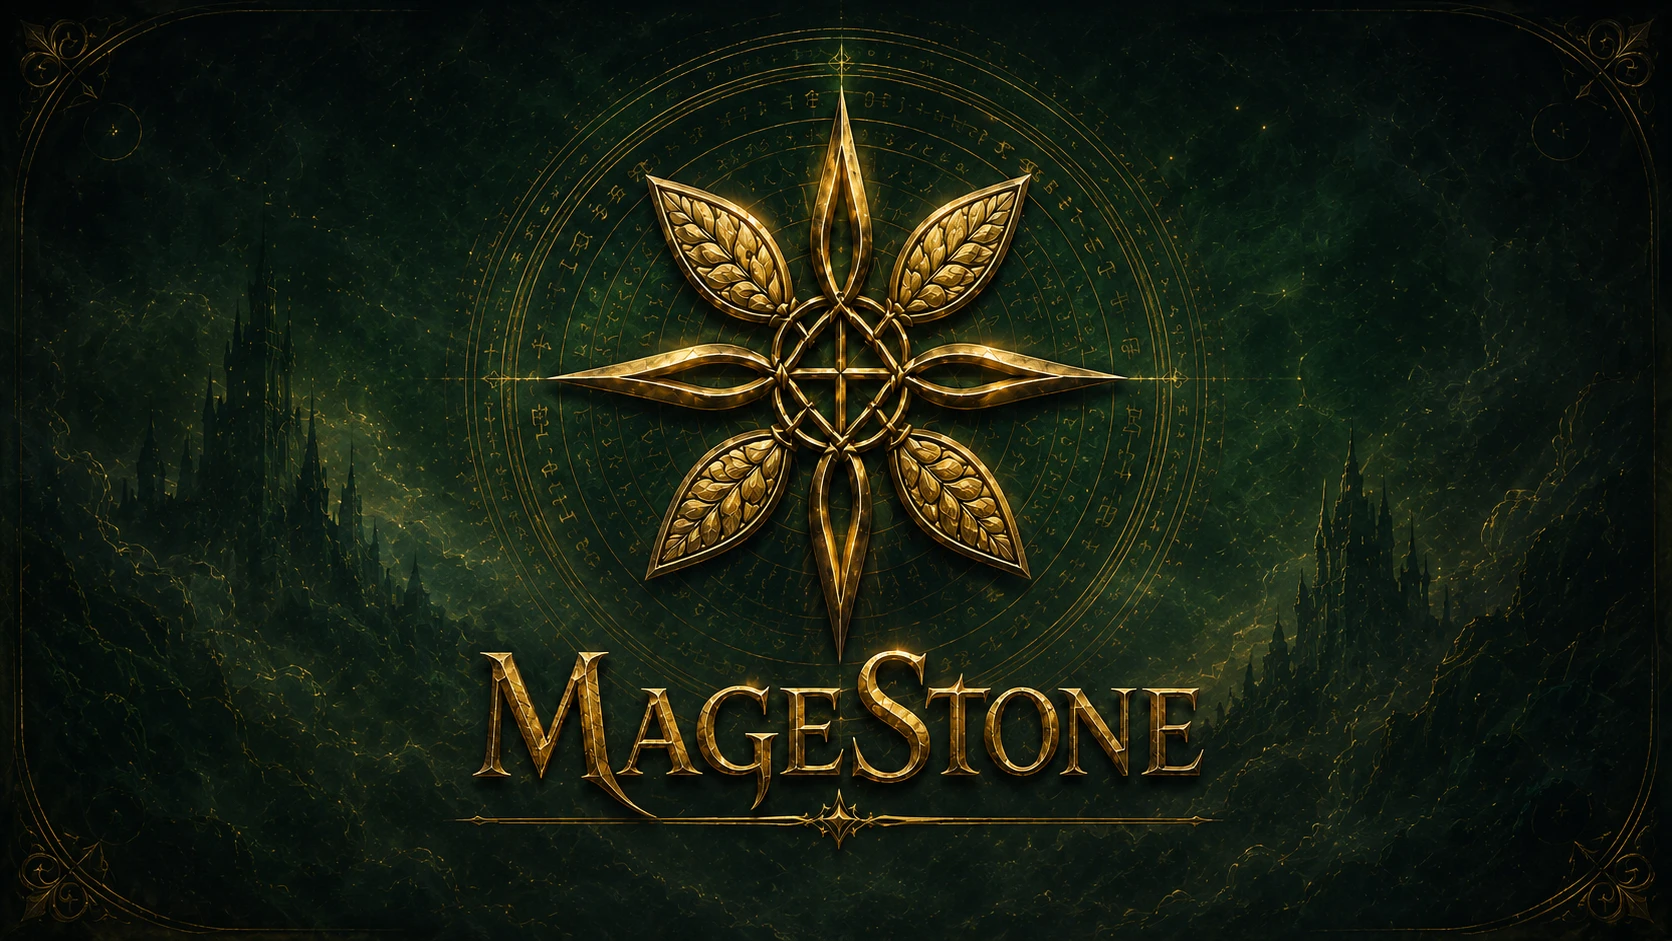
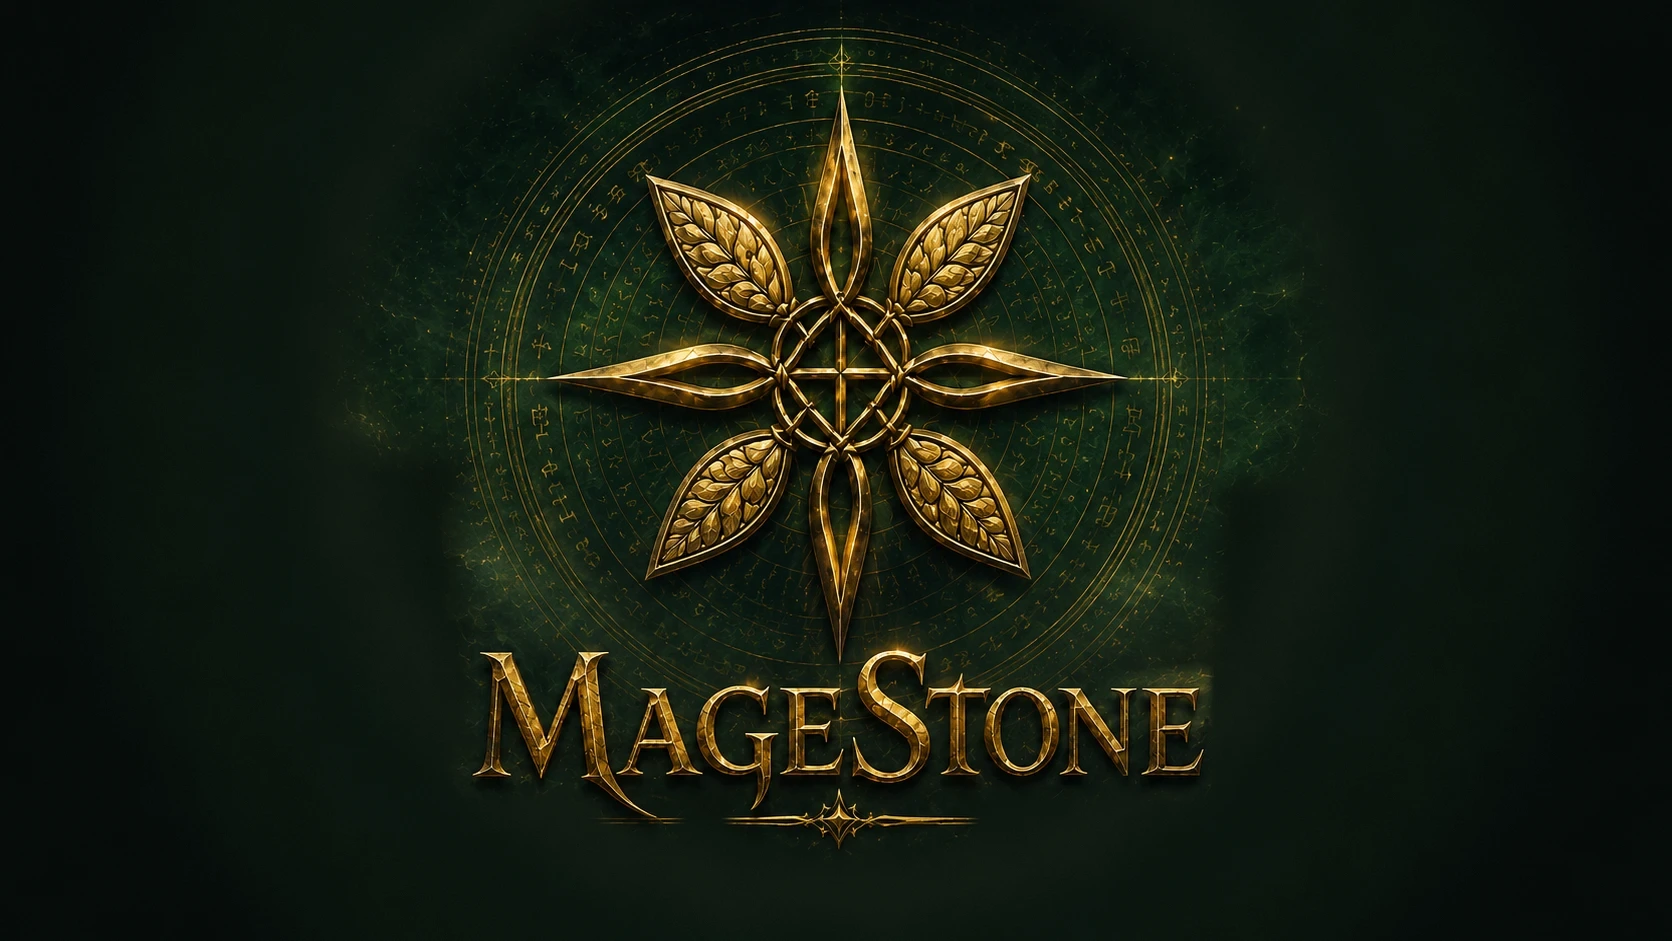
v0.7.5: clean cover - green fade only around the emblem and wordmark
The castle-tower silhouettes, corner scrollwork and baked gold frame are
removed from cover-art.webp; the background is now the plain emerald fade
around the gold emblem, rune circle and MAGESTONE wordmark (rebuilt from
the art itself with a tone-matched radial fade). og.jpg regenerated.
COVER_VER 4; the CSS screen-edge gilt frame and the overscan transforms
(which only existed to manage the baked frame) are gone. Mobile + desktop
layout audits re-run clean (no overlaps, no offscreen controls).

diff --git a/src/App.css b/src/App.css
@@ -2520,22 +2520,9 @@ body.ui-mobile .tut-gotit {
 .entry--cover {
   place-items: stretch;
 }
-/* Gilt frame flush with the SCREEN EDGE on the main menu. The cover art's own
-   painted border gets cropped by object-fit:cover on non-16:9 screens, so this
-   CSS frame guarantees the gold border's OUTER edge meets the screen edge with
-   no bleed on every aspect ratio, in fullscreen, on desktop AND mobile. Inset
-   box-shadows can never overflow, so the outer edge is always exactly inset 0. */
-.entry--cover::after {
-  content: '';
-  position: fixed;
-  inset: 0;
-  pointer-events: none;
-  z-index: 3;
-  box-shadow:
-    inset 0 0 0 3px var(--gold),
-    inset 0 0 0 4px rgba(10, 8, 4, 0.55),
-    inset 0 0 0 5px rgba(236, 203, 120, 0.45);
-}
+/* (No screen-edge gilt frame any more: the cover art lost its baked border
+   when the background scenery was removed — the menu floats on the clean
+   green fade, so a CSS frame would reintroduce the very detail that went.) */
 .entry-cover {
   position: relative;
   z-index: 1;
@@ -2913,26 +2900,19 @@ body.ui-mobile .tut-gotit {
   inset: 0;
   overflow: hidden;
   pointer-events: none;
-  /* Near-black emerald matte matching the emblem cover art's corner tone, so
-     it reads as the dark field continuing beyond the frame (and it's what
-     shows for the split-second before the image decodes). */
-  background: #050807;
+  /* Near-black emerald matte matching the emblem cover art's corner tone
+     (what shows for the split-second before the image decodes). */
+  background: #060c09;
 }
 .entry-photo {
   width: 100%;
   height: 100%;
   /* Cover so the hero fills the whole screen edge-to-edge on any aspect ratio
-     (e.g. 16:10 laptops at 125% scale — no letterbox bars). A sliver of the
-     art's outer frame may crop on non-16:9 screens; the centred emblem and
-     wordmark stay in frame. */
+     (e.g. 16:10 laptops at 125% scale — no letterbox bars). The art is now a
+     frameless green fade around the emblem + wordmark, so whatever a non-16:9
+     screen crops is plain background — no overscan needed. */
   object-fit: cover;
   object-position: 50% 50%;
-  /* The 1672×941 emblem cover has a thin dark margin outside its baked gold
-     frame line (~1.5-2% per side). A light uniform overscan (clipped by the
-     wrap's overflow:hidden) crops most of that margin so the art's frame sits
-     just inside the screen edge; the .entry--cover::after gold frame backstops
-     whichever axis object-fit:cover crops on non-16:9 screens. */
-  transform: scale(1.033);
 }
 /* gentle scrim: keep the art bright, only darken the bottom for the controls */
 .entry-photo-wrap::after {
@@ -3759,12 +3739,9 @@ body.ui-mobile.on-entry .fs-toggle {
 /* Cover art on phones: a phone in landscape is far wider (≈2.16) than the 16:9
    art, so object-fit:cover crops ~18% of the art's height. The emblem's tip
    sits ~8% down and the wordmark flourish ends ~89%, so anchor the crop window
-   at 42% — both stay in frame on a 2.16 phone (the window shows ~7.5%–89.7%).
-   Overscan only HORIZONTALLY so the side dark margins crop and the art's gilt
-   side frame stays near the edge. */
+   at 42% — both stay in frame on a 2.16 phone (the window shows ~7.5%–89.7%). */
 body.ui-mobile .entry-photo {
   object-position: 50% 42%;
-  transform: scale(1.033, 1);
 }
 body.ui-mobile .modal {
   max-height: 96vh;

diff --git a/src/version.ts b/src/version.ts
@@ -1,8 +1,9 @@
 // Bumped with each notable alpha update — shown in the landing footer.
-export const VERSION = 'v0.7.4-alpha';
-export const UPDATED = '21 July 2026';
+export const VERSION = 'v0.7.5-alpha';
+export const UPDATED = '22 July 2026';
 
 export const PATCH_NOTES = [
+  'v0.7.5 — Cleaner main menu: the castle towers, corner scrollwork and gold frame are gone from the cover — just the green fade around the MageStone emblem and wordmark now. Mobile menu re-checked: every button sits clear of the art on phones and desktops.',
   'v0.7.4 — New main-menu artwork: the gold MageStone emblem cover now fronts the game, tuned for desktop and phones (the emblem and wordmark stay in frame at any screen shape). Same menu, same controls, grander door.',
   'v0.7.3 — Siege and Conquest are now hands-on in the tutorial: you lay the siege yourself, switch sides to break it as Blue (freeing the respawn queue the instant the intruder falls), then seal Blue’s base and land the finishing blow for a Conquest victory. Every scene of the tutorial is now played, not watched.',
   'v0.7.2 — Tutorial guardrails: during each hands-on step only the taught move works. Wrong units, wrong squares and wrong buttons simply don’t respond, so you can’t derail the lesson — walk the Priest only onto the gravestone, launch only the Triple Attack, step the Mage only onto your base.',

diff --git a/index.html b/index.html
@@ -10,7 +10,7 @@
     <meta name="apple-mobile-web-app-status-bar-style" content="black-translucent" />
     <meta name="apple-mobile-web-app-title" content="MageStone" />
     <meta name="theme-color" content="#0c2118" />
-    <link rel="preload" as="image" href="/cover-art.webp?v=3" />
+    <link rel="preload" as="image" href="/cover-art.webp?v=4" />
     <meta
       name="viewport"
       content="width=device-width, initial-scale=1.0, maximum-scale=1.0, user-scalable=no, viewport-fit=cover"

diff --git a/src/ui/screens/Screens.tsx b/src/ui/screens/Screens.tsx
@@ -54,7 +54,7 @@ function Mage({ color, glow, flip }: { color: string; glow: string; flip?: boole
 // art (so the SVG never flashes underneath while the real image is loading).
 // Bump COVER_VER whenever the cover image changes — the filename stays the same,
 // so the version query is what stops browsers serving a stale cached copy.
-const COVER_VER = 3;
+const COVER_VER = 4;
 const COVER_SRCS = ['/cover-art.webp', '/cover-art.png', '/cover-art.jpg'].map((s) => `${s}?v=${COVER_VER}`);
 function EntryPhoto() {
   const [idx, setIdx] = useState(0);